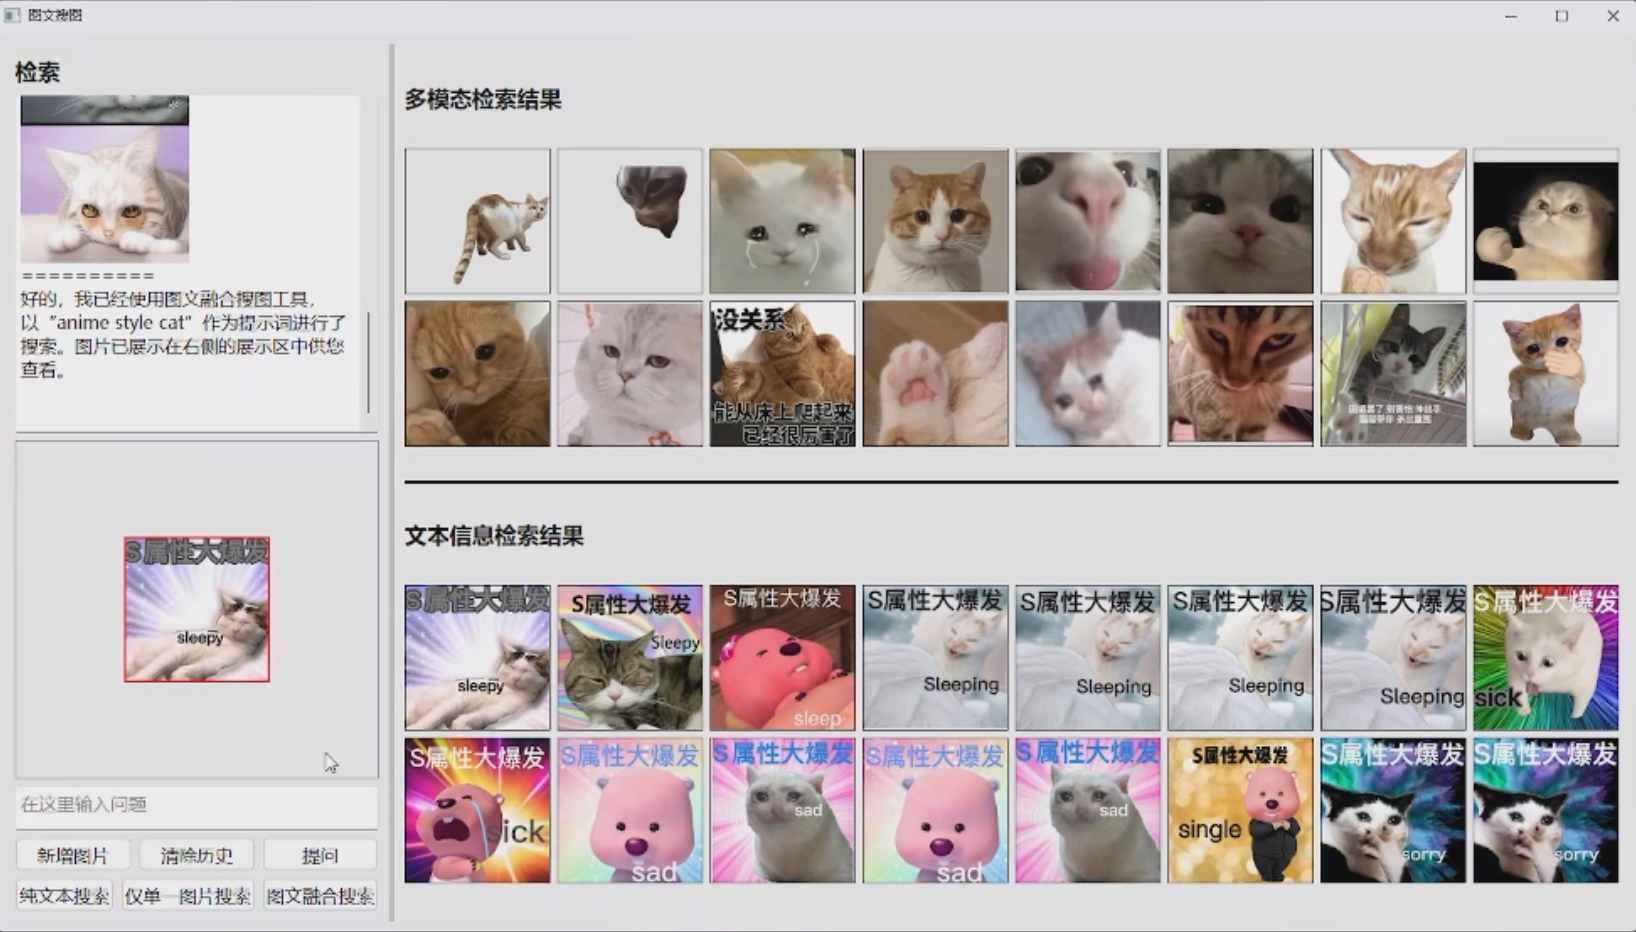
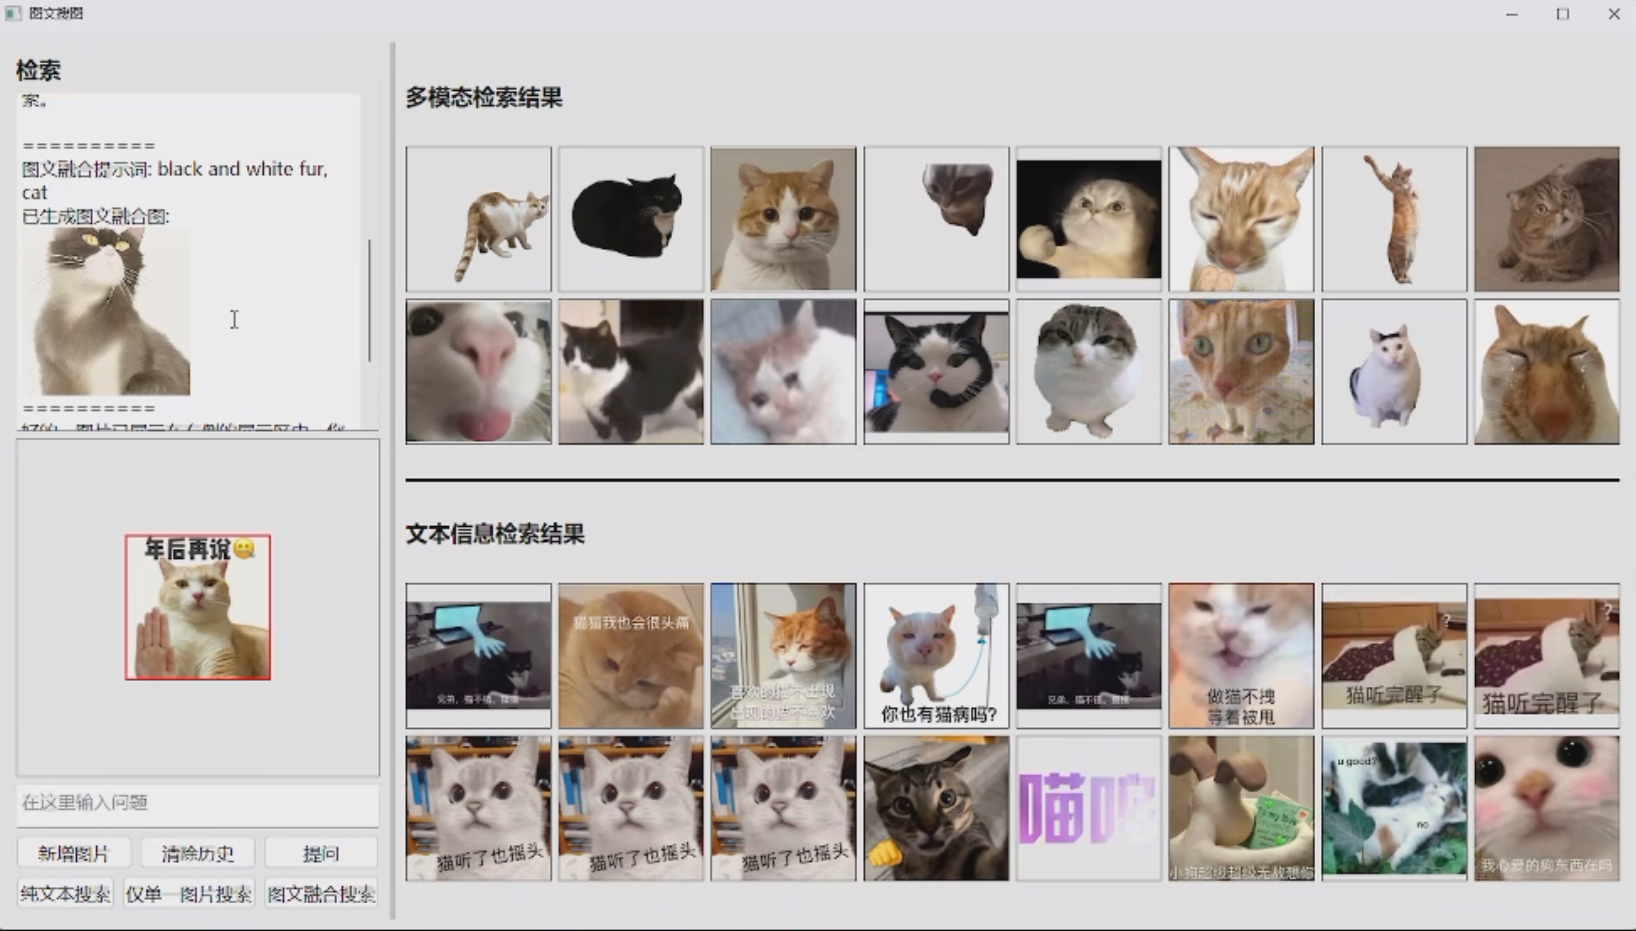
优化系统提示词和说明文档中的截图示例

diff --git a/src/app/ai/tools/img_search_tool.py b/src/app/ai/tools/img_search_tool.py
@@ -82,8 +82,9 @@ def img_search_by_text_and_image_tool(text: str):
     1、这个工具不需要传入图片作为入参，因为该工具一旦调用，工具会自动获取用户最近一次向你发送的图片。
     2、输入的文本text必须是适配stable diffusion图生图工具的正向提示词。
     3、提示词除了需要从用户请求的文本中提取之外，也需要从用户输入的图片中提取，但是如果文本和图片的特征产生冲突，以文本为准。文本中未出现，但是图片中非常显著，具有鲜明特色的特征，必须提取。
-    比如，用户请求“帮我在这张图的基础上修改图中人物的发色为黄色、瞳色为绿色”（同时附带一张具有1个女性人物（发色为白色，瞳色为蓝色）的图片），
-    你需要将其转换为“yellow hair,green eyes,1girl”作为提示词文本text。其中，yellow hair和green eyes提示词是基于用户文本生成，1girl是基于图片生成
+    比如，用户请求“帮我找和这张图类似，但是图中人物的发色为黄色、瞳色为绿色”（同时附带一张具有1个女性人物（发色为白色，瞳色为蓝色）的图片），
+    你需要将其转换为“yellow hair,green eyes,1girl”作为提示词文本text。其中，yellow hair和green eyes提示词是基于用户文本生成，1girl是基于图片生成。
+    不要在提示词中加入类似“similar to xx”之类的短句，请直接把准确的图片特征写入提示词中。
 
     Args:
         text: 适配stable diffusion图生图工具的正向提示词
